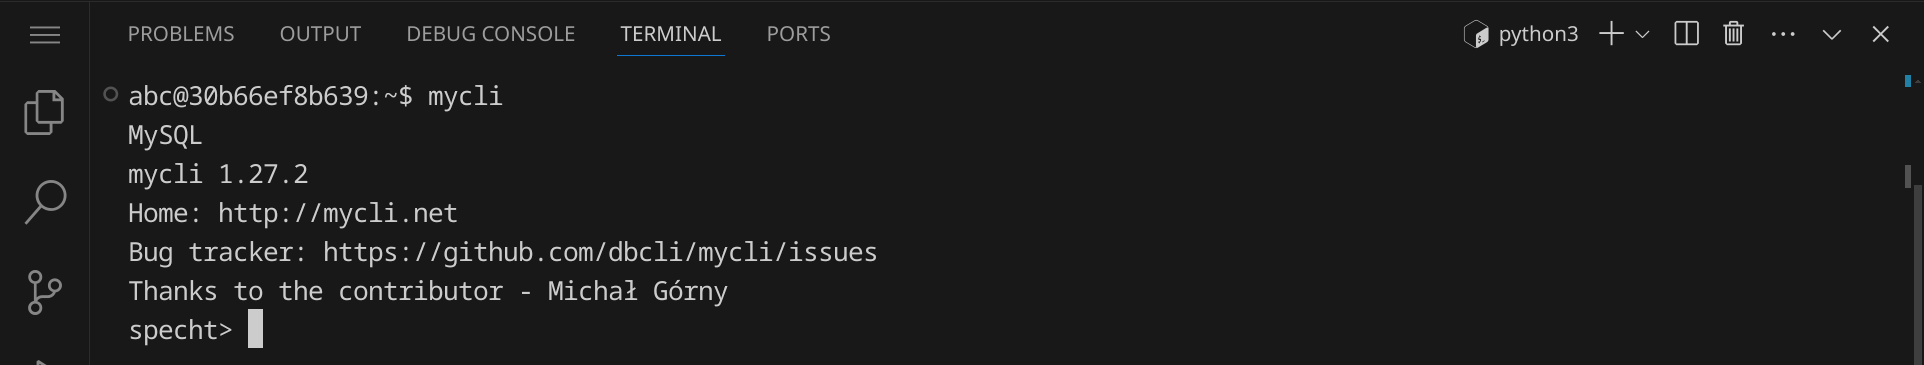
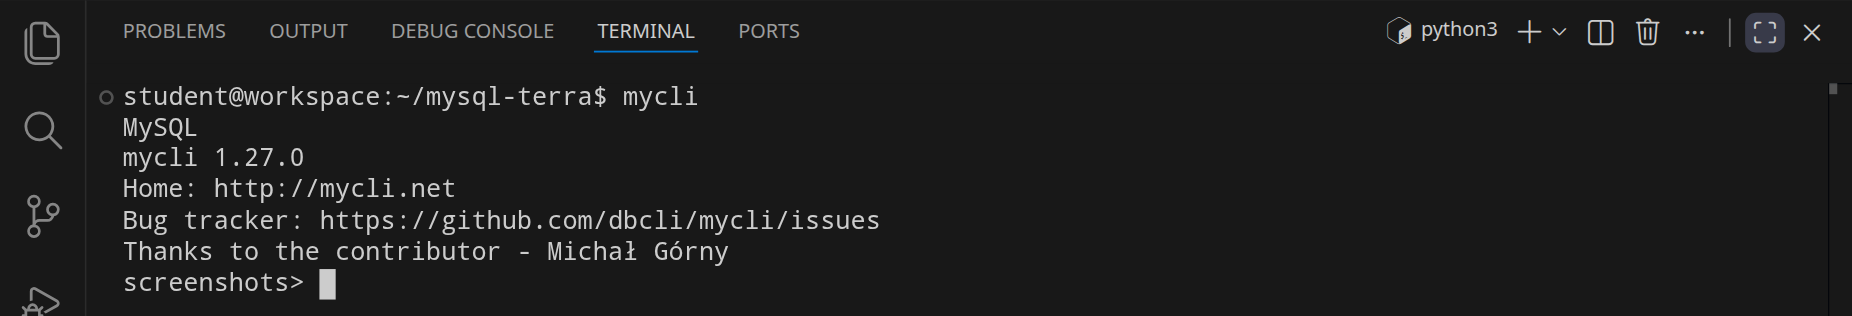
yay

diff --git a/src/content/mysql/mysql.md b/src/content/mysql/mysql.md
@@ -110,14 +110,6 @@ crop-terminal-lines: 2
 
 <img class='full' src='sql-import.webp' alt=''>
 
-<div class='hint wink'>
-Hast du daran gedacht, die <kbd>Tab</kbd>-Taste zu verwenden, um den Dateinamen automatisch vervollständigen zu lassen?
-</div>
-
-Wenn alles geklappt hat, siehst du keine Ausgabe. Das ist ein gutes Zeichen, denn das bedeutet, dass der Import erfolgreich war:
-
-<img class='full' src='import.webp' alt=''>
-
 ## Tabellenaufbau anzeigen
 
 Um mit MySQL zu arbeiten, verwenden wir `mycli`, einen MySQL-Client, der speziell für die Kommandozeile entwickelt wurde. Starte `mycli`, indem du den folgenden Befehl eingibst:
@@ -127,6 +119,13 @@ mycli
 ```
 
 Die Ausgabe sollte in etwa so aussehen:
+
+<!-- tutorial-screenshot
+terminal-run: clear
+terminal-run: mycli
+sleep: 0.5
+crop-terminal-lines: 7
+-->
 
 <img class='full' src='mycli-prompt.webp' alt=''>
 
